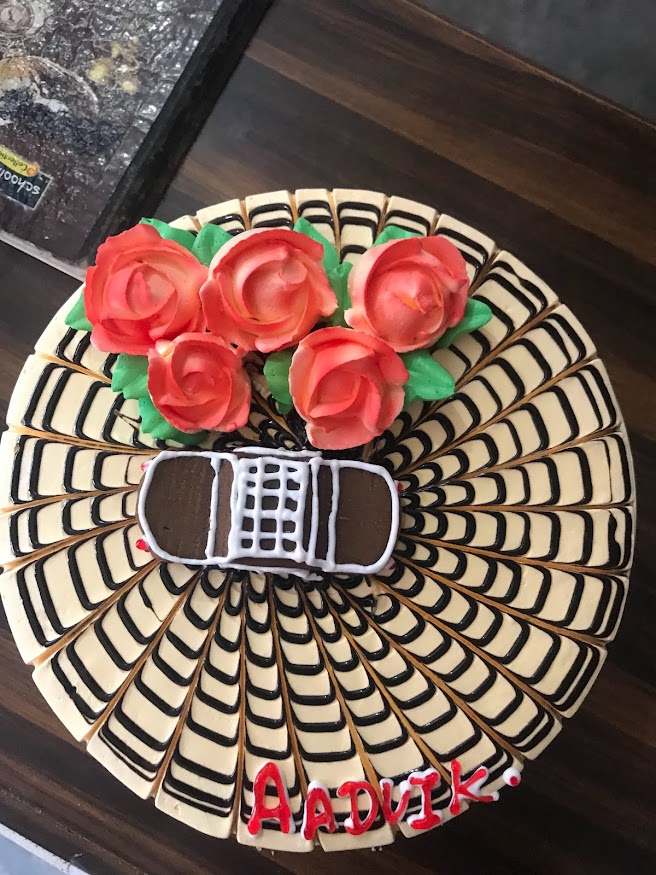
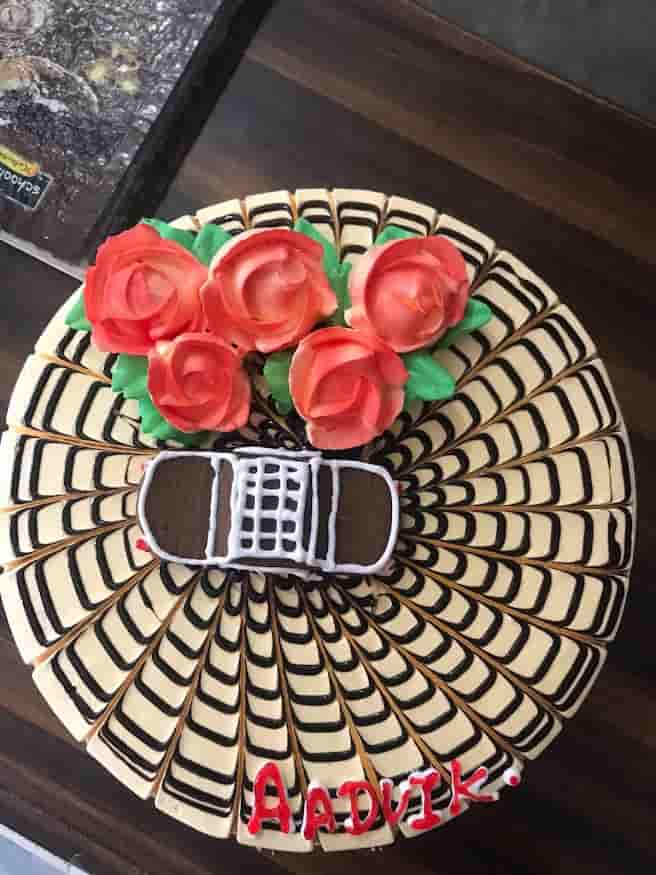
added script and images optimized

diff --git a/public/index.html b/public/index.html
@@ -6,7 +6,7 @@
     <meta name="viewport" content="width=device-width, initial-scale=1.0" />
     <title>Bakery Name</title>
     <link rel="stylesheet" href="/styles.css" />
-    <script type="module" src="./index.js"></script>
+    <script type="module" src="./script.js"></script>
   </head>
   <body class="text-gray-600 font-body">
     <div>

diff --git a/public/order.html b/public/order.html
@@ -265,6 +265,6 @@
         </form>
       </div>
     </div>
-    <script src="./index.js"></script>
+    <script src="./script.js"></script>
   </body>
 </html>
